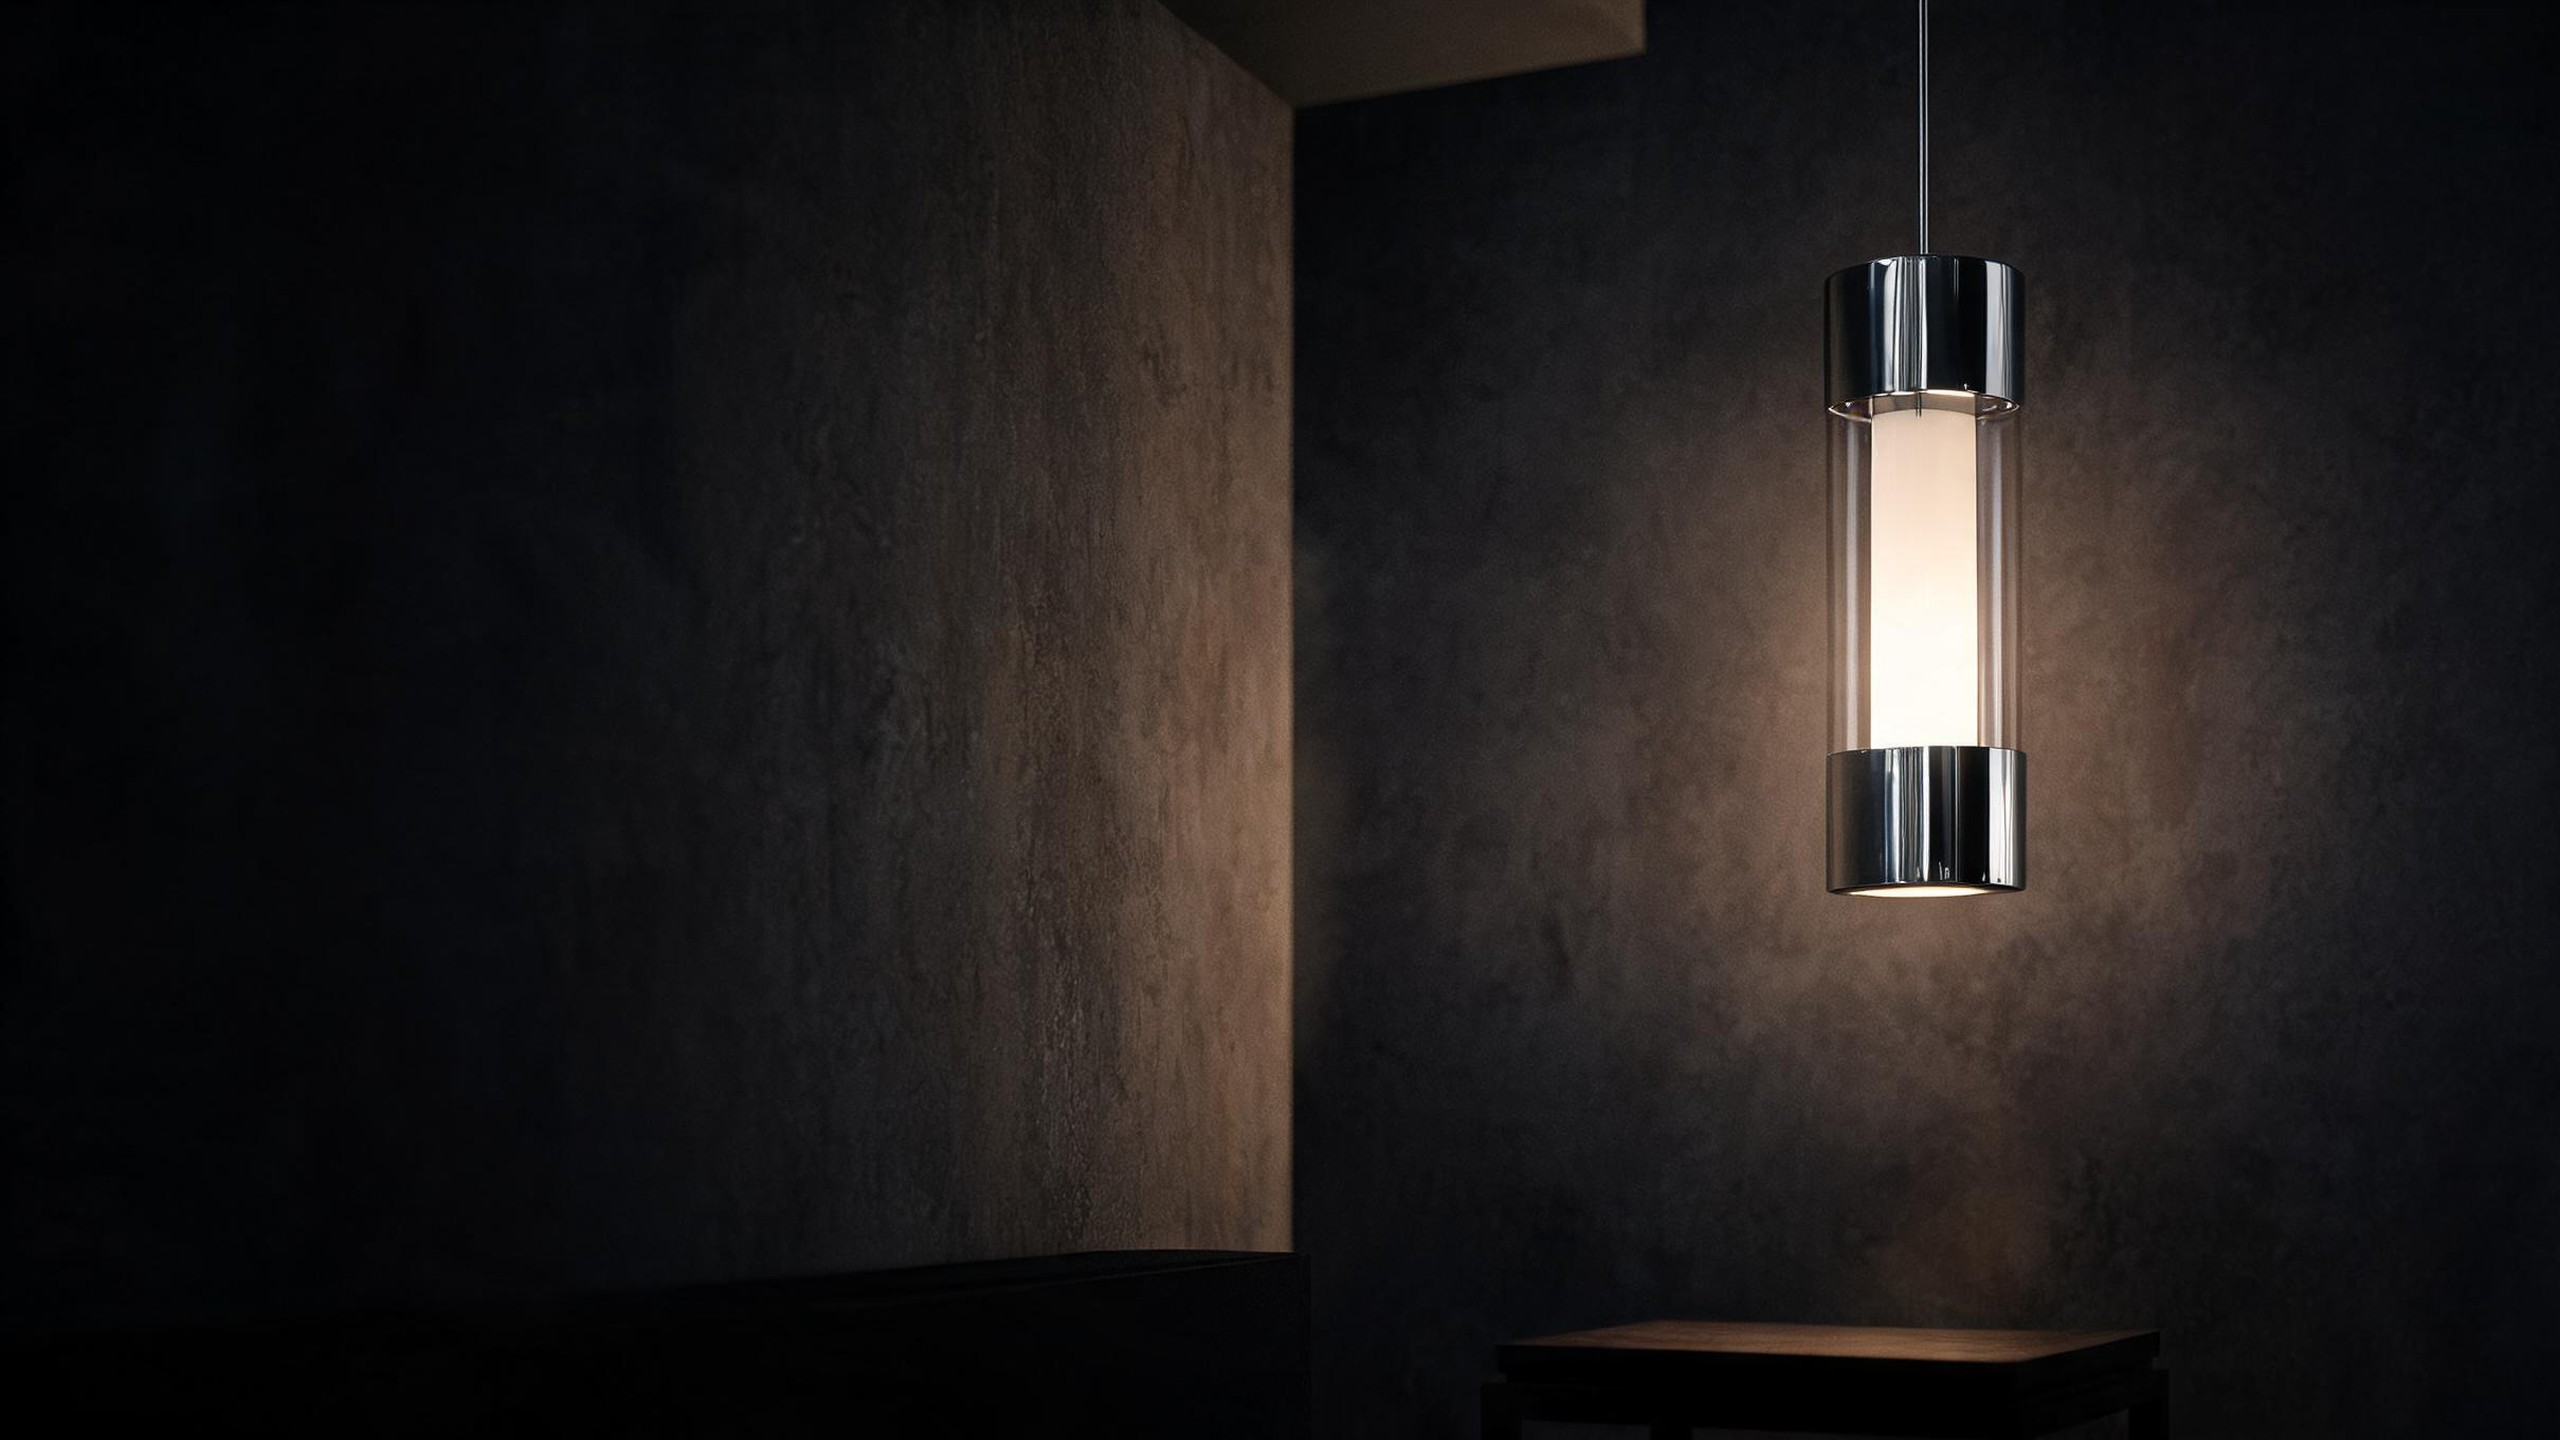
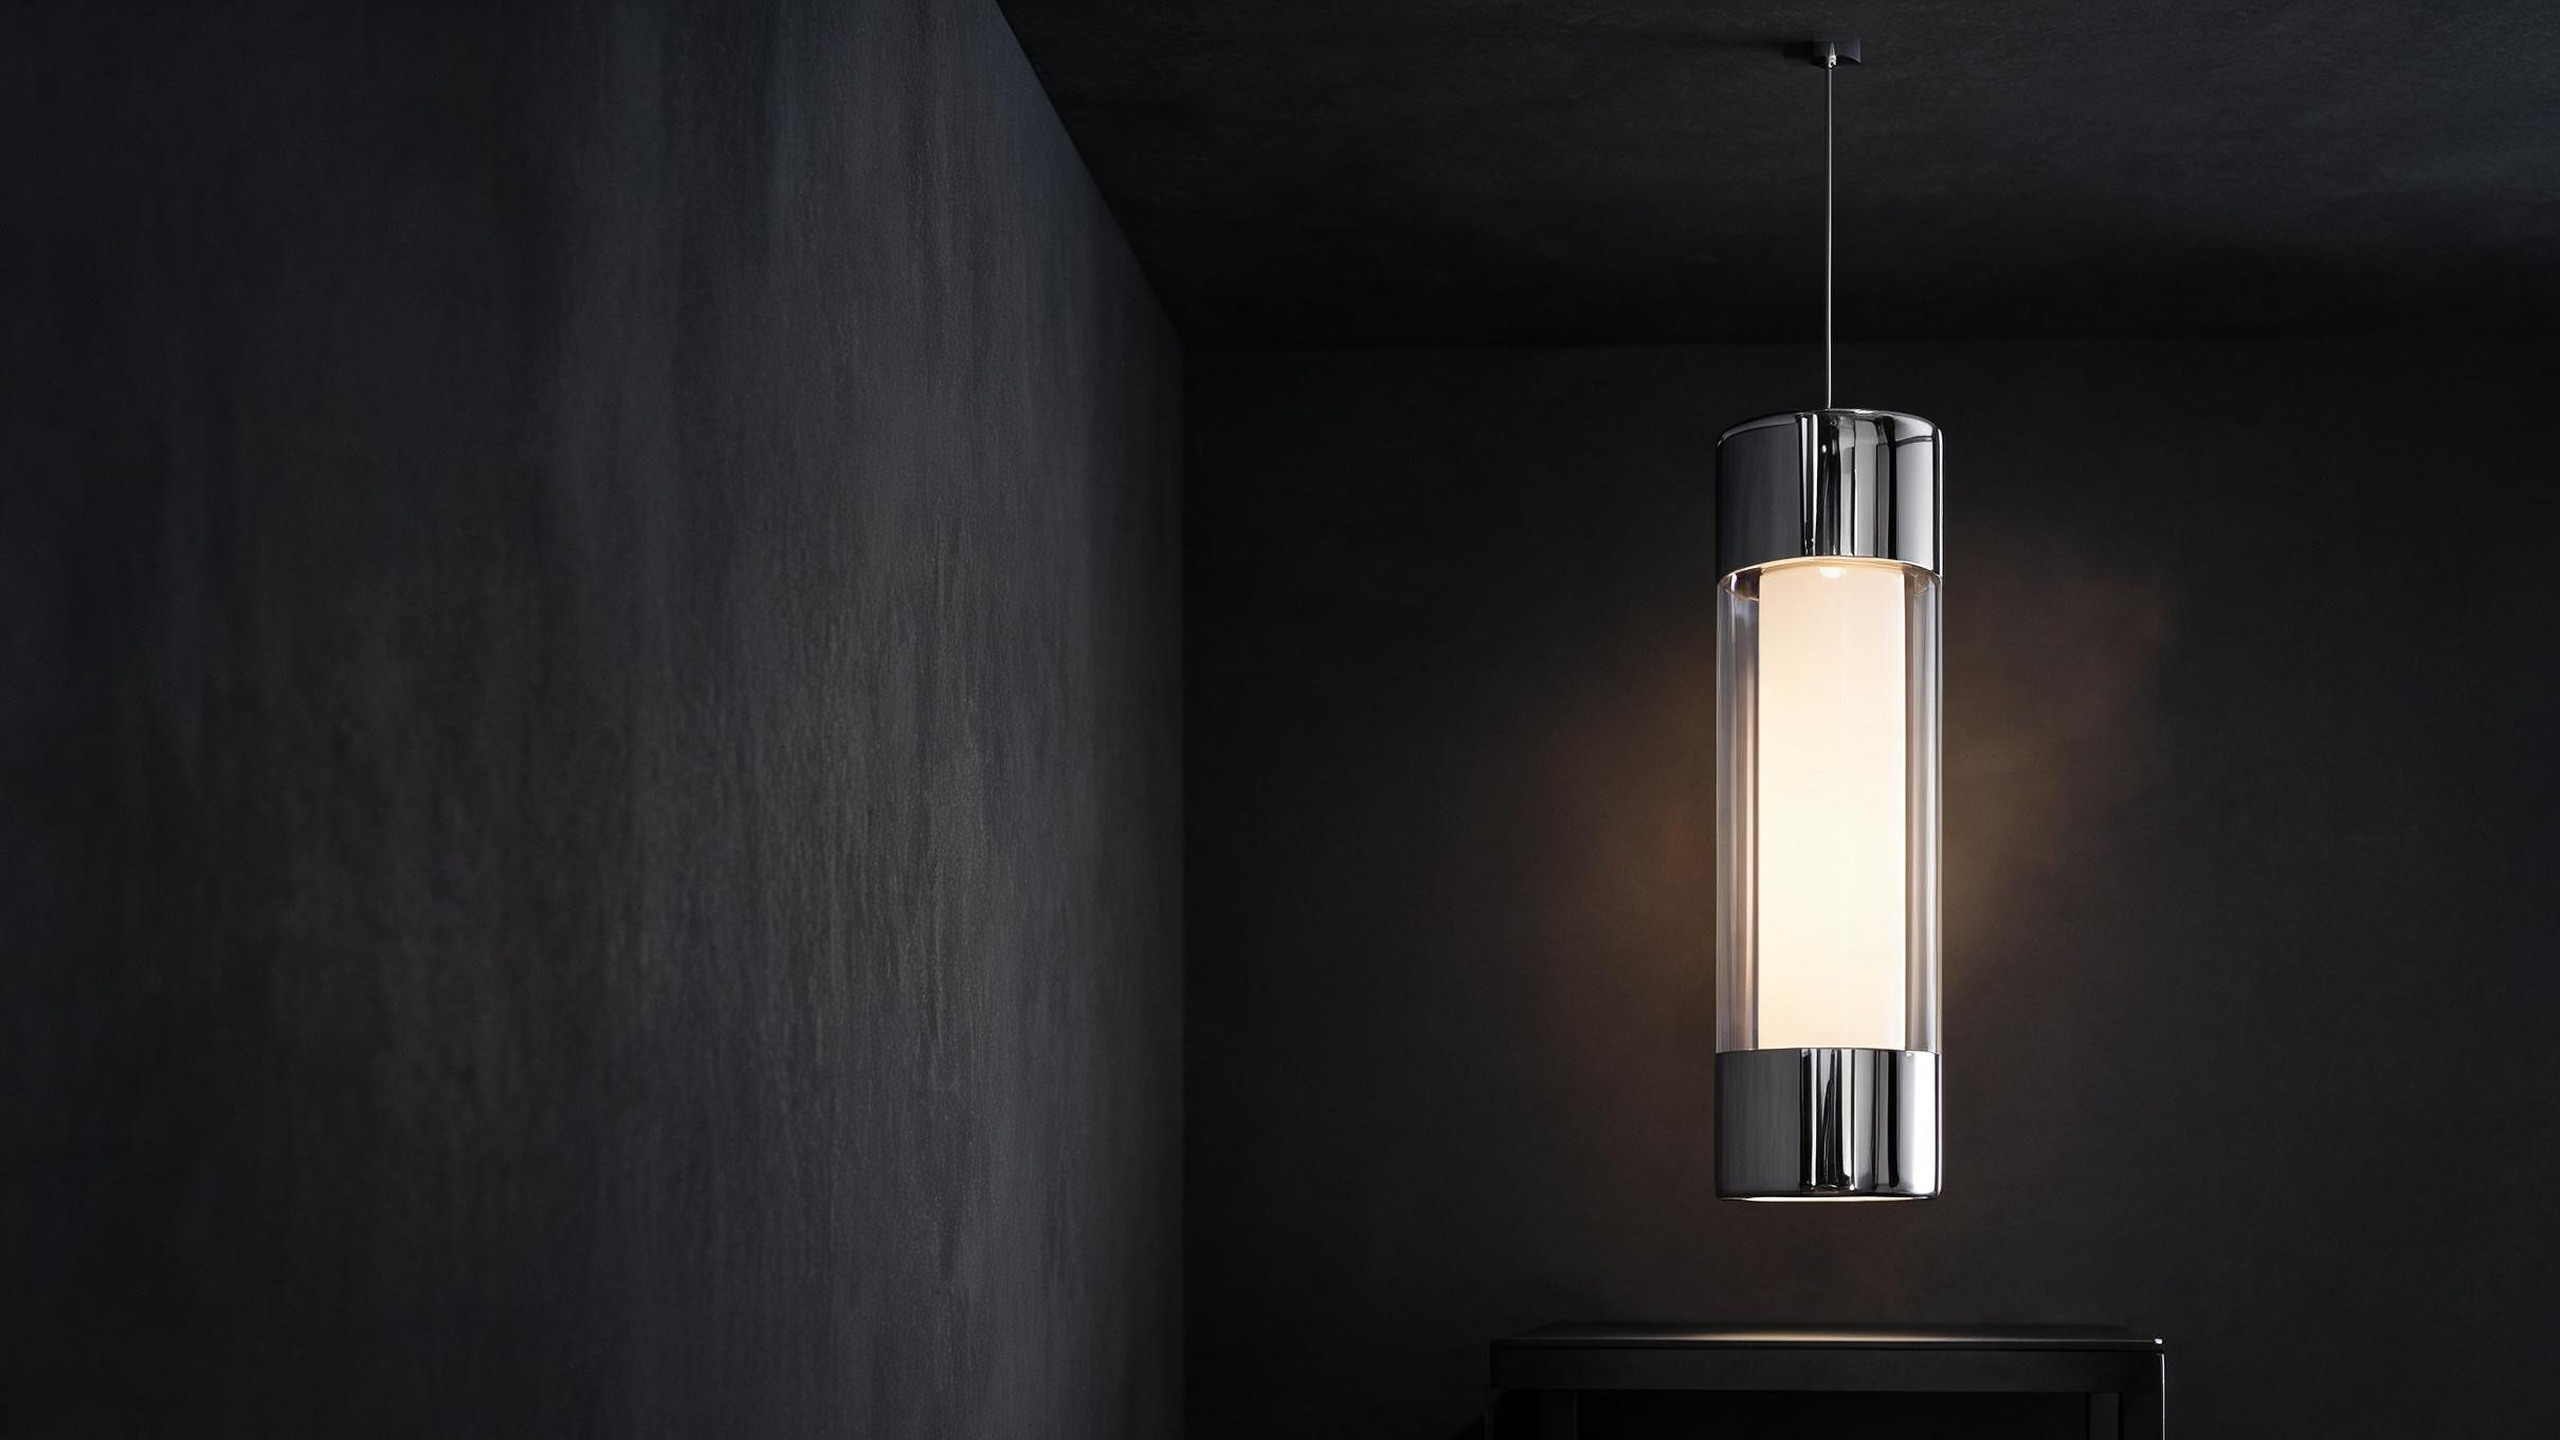
Richer hero copy, taller hero, recomposed hero images

diff --git a/static/css/imperial.css b/static/css/imperial.css
@@ -1598,20 +1598,20 @@ ul, ol { margin: 0 0 1em; padding-left: 1.15em; }
   background: var(--coal);
   color: var(--paper);
   border-bottom: 0;
-  min-height: clamp(440px, 44vw, 620px);
+  min-height: clamp(520px, min(56.25vw, 82vh), 940px);
   display: flex;
   flex-direction: column;
   justify-content: flex-end;
-  padding: 132px 0 88px;
+  padding: 150px 0 96px;
 }
 .page-hero__media { position: absolute; inset: 0; }
 .page-hero__media img {
   width: 100%;
   height: 100%;
   object-fit: cover;
-  object-position: 86% 10%;
+  object-position: 50% 45%;
   transform: scale(1.001);
-  transform-origin: 86% 20%;
+  transform-origin: 50% 45%;
   transition: transform 1.4s var(--ease);
   will-change: transform;
 }
@@ -1632,6 +1632,47 @@ ul, ol { margin: 0 0 1em; padding-left: 1.15em; }
 .page-hero--media .breadcrumbs a { color: rgba(246,244,238,.7); }
 .page-hero--media .breadcrumbs a:hover { color: var(--paper); }
 .page-hero--media .breadcrumbs li + li::before { color: rgba(246,244,238,.32); }
+
+.page-hero--media .page-hero__lede {
+  font-size: clamp(1.04rem, 1.05vw, 1.16rem);
+  line-height: 1.62;
+  max-width: 600px;
+  color: rgba(246,244,238,.84);
+}
+.page-hero__points {
+  display: flex;
+  flex-wrap: wrap;
+  gap: 10px 26px;
+  margin: 26px 0 0;
+  padding: 0;
+  list-style: none;
+}
+.page-hero__points li {
+  position: relative;
+  font-size: .74rem;
+  font-weight: 500;
+  letter-spacing: .14em;
+  text-transform: uppercase;
+  color: rgba(246,244,238,.6);
+}
+.page-hero__points li + li::before {
+  content: "";
+  position: absolute;
+  left: -15px;
+  top: 50%;
+  width: 3px;
+  height: 3px;
+  border-radius: 50%;
+  background: currentColor;
+  transform: translateY(-50%);
+}
+.page-hero__actions {
+  display: flex;
+  flex-wrap: wrap;
+  gap: 12px;
+  margin-top: 32px;
+}
+.page-hero__actions .btn { padding: 13px 22px; font-size: .82rem; }
 
 .page-hero--tint { background: var(--paper-2); }
 
@@ -1664,7 +1705,11 @@ ul, ol { margin: 0 0 1em; padding-left: 1.15em; }
 .post-cta h2 { font-size: clamp(1.6rem, 2.6vw, 2.2rem); }
 
 @media (max-width: 860px) {
-  .page-hero--media { padding: 150px 0 60px; }
+  .page-hero--media { padding: 122px 0 56px; min-height: clamp(440px, 92vw, 560px); }
+  .page-hero__media img { object-position: 58% 42%; }
+  .page-hero__points { gap: 8px 22px; margin-top: 20px; font-size: .7rem; }
+  .page-hero__points li { font-size: .68rem; }
+  .page-hero__actions { margin-top: 26px; }
   .page-cta { padding: 52px 32px; margin: 64px 0 72px; }
   .post-cta { padding: 36px 28px; }
 }

diff --git a/layouts/products/list.html b/layouts/products/list.html
@@ -105,10 +105,17 @@
       {{ partial "breadcrumbs.html" (slice (dict "name" "Home" "url" ("" | absURL)) (dict "name" "Products" "url" .RelPermalink)) }}
       <p class="eyebrow eyebrow--light">Catalogue</p>
       <h1 class="h-display">Product Catalogue</h1>
-      <p class="page-hero__lede">{{ .Description }}</p>
+      <p class="page-hero__lede">{{ or .Params.heroLede .Description }}</p>
+      {{- with .Params.heroPoints }}
+      <ul class="page-hero__points">{{ range . }}<li>{{ . }}</li>{{ end }}</ul>
+      {{- end }}
+      <div class="page-hero__actions">
+        <a class="btn btn-light" href="{{ "contact/" | absURL }}">Request a quote</a>
+        <a class="btn btn-ghostlight" href="#series">Jump to series</a>
+      </div>
     </div>
   </section>
-  <section class="section">
+  <section class="section" id="series">
     <div class="shell">
       <div class="series-grid series-grid--wide">
         {{- range $series }}

diff --git a/layouts/_default/single.html b/layouts/_default/single.html
@@ -14,7 +14,16 @@
       <p class="eyebrow eyebrow--light">{{ .Title }}</p>
       {{- end }}
       <h1>{{ .Title }}</h1>
-      {{- with .Description }}<p class="page-hero__lede">{{ . }}</p>{{ end }}
+      {{- with (or .Params.heroLede .Description) }}<p class="page-hero__lede">{{ . }}</p>{{ end }}
+      {{- with .Params.heroPoints }}
+      <ul class="page-hero__points">{{ range . }}<li>{{ . }}</li>{{ end }}</ul>
+      {{- end }}
+      {{- if not $isBlog }}
+      <div class="page-hero__actions">
+        <a class="btn btn-light" href="{{ "products/" | absURL }}">Browse the catalogue</a>
+        <a class="btn btn-ghostlight" href="{{ "contact/" | absURL }}">Request a quote</a>
+      </div>
+      {{- end }}
     </div>
   </header>
   <div class="shell{{ if $isBlog }} narrow{{ end }}">

diff --git a/layouts/_partials/head.html b/layouts/_partials/head.html
@@ -40,7 +40,7 @@
 <link rel="preconnect" href="https://fonts.googleapis.com">
 <link rel="preconnect" href="https://fonts.gstatic.com" crossorigin>
 <link href="https://fonts.googleapis.com/css2?family=Inter+Tight:ital,wght@0,300;0,400;0,500;1,300&family=Instrument+Serif:ital@0;1&display=swap" rel="stylesheet">
-<link rel="stylesheet" href="{{ "css/imperial.css" | absURL }}?v=20261110l">
+<link rel="stylesheet" href="{{ "css/imperial.css" | absURL }}?v=20261110m">
 {{ partial "schema.html" . }}
 {{- with site.Params.cloudflareAnalyticsToken }}
 <script defer src="https://static.cloudflareinsights.com/beacon.min.js" data-cf-beacon='{"token":"{{ . }}"}'></script>

diff --git a/layouts/_default/list.html b/layouts/_default/list.html
@@ -6,7 +6,10 @@
     {{ partial "breadcrumbs.html" (slice (dict "name" "Home" "url" ("" | absURL)) (dict "name" .Title "url" .RelPermalink)) }}
     <p class="eyebrow eyebrow--light">Journal</p>
     <h1>{{ .Title }}</h1>
-    {{- with .Description }}<p class="page-hero__lede">{{ . }}</p>{{ end }}
+    {{- with (or .Params.heroLede .Description) }}<p class="page-hero__lede">{{ . }}</p>{{ end }}
+    {{- with .Params.heroPoints }}
+    <ul class="page-hero__points">{{ range . }}<li>{{ . }}</li>{{ end }}</ul>
+    {{- end }}
   </div>
 </section>
 <section class="section section--tint">

diff --git a/layouts/contact/single.html b/layouts/contact/single.html
@@ -6,7 +6,10 @@
     {{ partial "breadcrumbs.html" (slice (dict "name" "Home" "url" ("" | absURL)) (dict "name" "Contact" "url" .RelPermalink)) }}
     <p class="eyebrow eyebrow--light">Inquiry</p>
     <h1>{{ .Title }}</h1>
-    <p class="page-hero__lede">{{ .Description }}</p>
+    <p class="page-hero__lede">{{ or .Params.heroLede .Description }}</p>
+    {{- with .Params.heroPoints }}
+    <ul class="page-hero__points">{{ range . }}<li>{{ . }}</li>{{ end }}</ul>
+    {{- end }}
   </div>
 </section>
 

diff --git a/layouts/baseof.html b/layouts/baseof.html
@@ -10,6 +10,6 @@
   </main>
   {{ partial "footer.html" . }}
   {{ partial "whatsapp.html" . }}
-  <script src="{{ "js/site.js" | absURL }}?v=20261110l" defer></script>
+  <script src="{{ "js/site.js" | absURL }}?v=20261110m" defer></script>
 </body>
 </html>

diff --git a/content/about.md b/content/about.md
@@ -2,6 +2,11 @@
 title: "About Imperial Lighting"
 description: "Imperial Lighting is an LED lighting manufacturer in Jiangmen, China, producing pendant, wall, ceiling and outdoor luminaires for Europe and North America since 2013."
 heroImage: "images/hero-about.jpg"
+heroLede: "Imperial Lighting has manufactured decorative and architectural LED luminaires in Jiangmen since 2013. Die-casting, machining, finishing, assembly and testing all happen under one roof, so housing geometry and delivery dates stay under our own control."
+heroPoints:
+  - "Die-casting in-house"
+  - "Extrusion and tooling"
+  - "Prototype to production"
 ---
 
 Imperial Lighting is a lighting manufacturer based in Jiangmen, Guangdong, China. Since 2013 we have produced decorative and architectural LED fixtures for importers, project suppliers and private-label brands, mainly in Europe and North America.

diff --git a/content/contact.md b/content/contact.md
@@ -4,6 +4,11 @@ type: "contact"
 description: "Send a lighting enquiry to Imperial Lighting. Include the model, quantity and target market for a faster quotation."
 noindex: false
 heroImage: "images/hero-contact.jpg"
+heroLede: "Send the model, quantity and target market and we reply with price, lead time and the certification documents available for that model. Drawings, reference photos or a competitor sample are all a workable starting point."
+heroPoints:
+  - "Reply within one business day"
+  - "Quotation, lead time, certificates"
+  - "Samples on request"
 ---
 
 Tell us which models you are interested in, the quantity you expect and the market you are selling into. We reply with price, lead time and the documents available for that model. Attach drawings or reference images if you have them.

diff --git a/content/blog/_index.md b/content/blog/_index.md
@@ -2,5 +2,10 @@
 title: "Blog"
 description: "Sourcing guides for trade buyers: how to specify LED lighting from China, OEM versus ODM, CRI, pendants and ceiling height, and compliance basics."
 heroImage: "images/hero-journal.jpg"
+heroLede: "Practical notes for buyers specifying LED lighting from Chinese factories: the decisions that change price, compliance and installation, with figures where we have them."
+heroPoints:
+  - "Sourcing guides"
+  - "OEM vs ODM"
+  - "Compliance basics"
 ---
 Practical notes for buyers specifying LED lighting from Chinese factories. No company news — only the decisions that affect price, compliance and installation.

diff --git a/content/factory.md b/content/factory.md
@@ -2,6 +2,11 @@
 title: "Factory & Quality Control"
 description: "Imperial Lighting factory in Jiangmen, China: aluminium die-casting, LED assembly, incoming inspection, ageing tests and pre-shipment checks."
 heroImage: "images/hero-factory.jpg"
+heroLede: "One site covers the whole build: aluminium die-casting and machining, metal finishing, LED assembly, ageing tests and pre-shipment inspection. Buyers and third-party inspectors are welcome to audit the line before a purchase order."
+heroPoints:
+  - "Die-casting and machining"
+  - "Ageing and photometric checks"
+  - "Pre-shipment inspection"
 ---
 
 ## A lighting factory, not a trading office

diff --git a/content/products/_index.md b/content/products/_index.md
@@ -1,4 +1,9 @@
 ---
 title: "Products"
 description: "Browse the Imperial Lighting catalogue by series: pendant lights, wall and vanity lights, ceiling lights, table lamps, floor lamps and outdoor wall lights."
+heroLede: "Six series under one design language: pendant, wall and vanity, ceiling, table, floor and outdoor wall lighting. Every model can be private-labelled, with custom housing, diffuser, finish and packaging developed in-house."
+heroPoints:
+  - "Pendant · Wall · Ceiling"
+  - "Table · Floor · Outdoor"
+  - "OEM and ODM supported"
 ---
